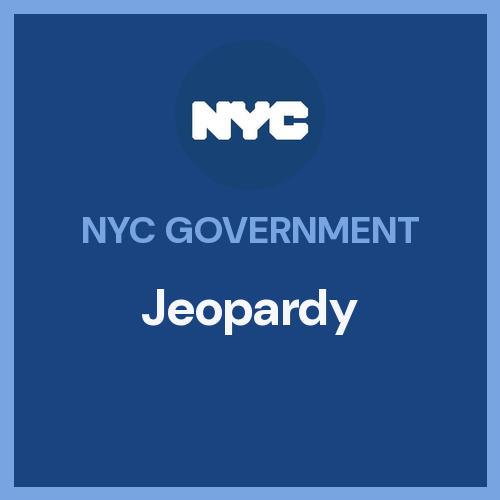
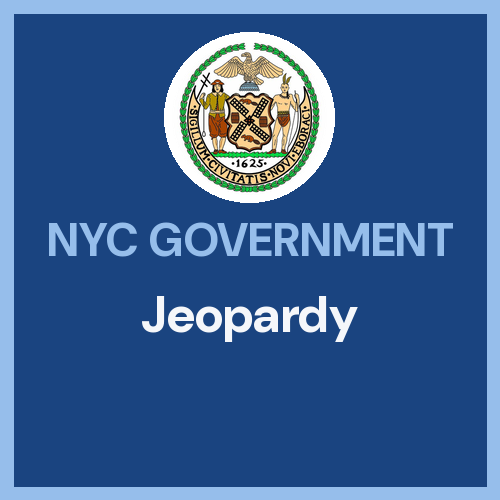
City Council/Charter/Mayor game: use the full-color NYC seal; SW cache v21

diff --git a/sw.js b/sw.js
@@ -1,5 +1,5 @@
 // CB6 & Beyond — Service Worker
-const CACHE_VERSION = 'cb6-v20';
+const CACHE_VERSION = 'cb6-v21';
 const CORE_ASSETS = [
   '/',
   '/index.html',
